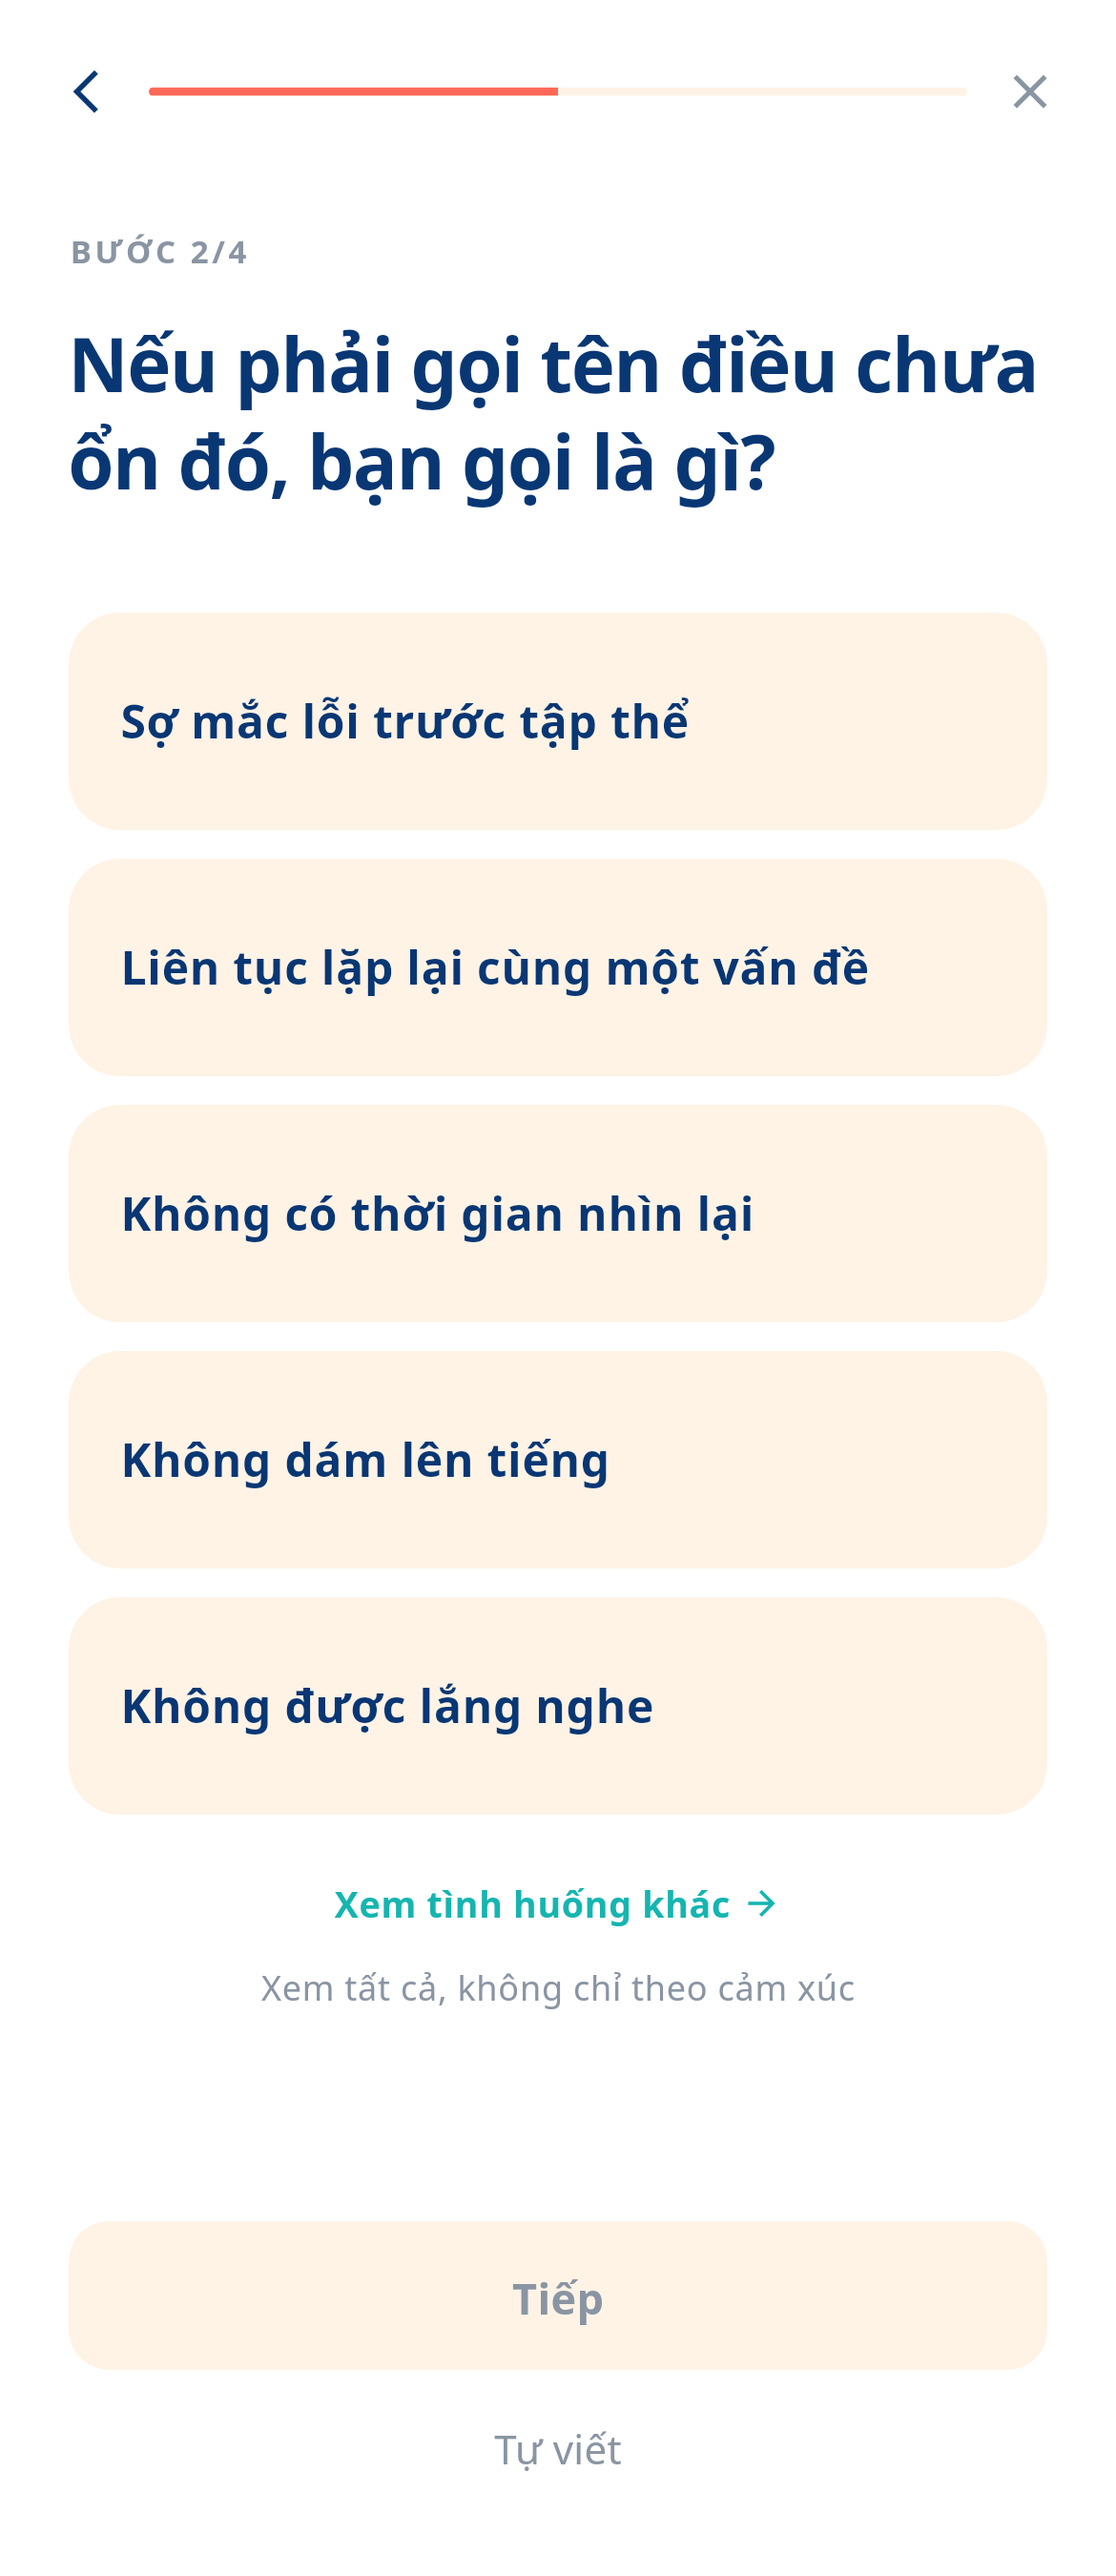
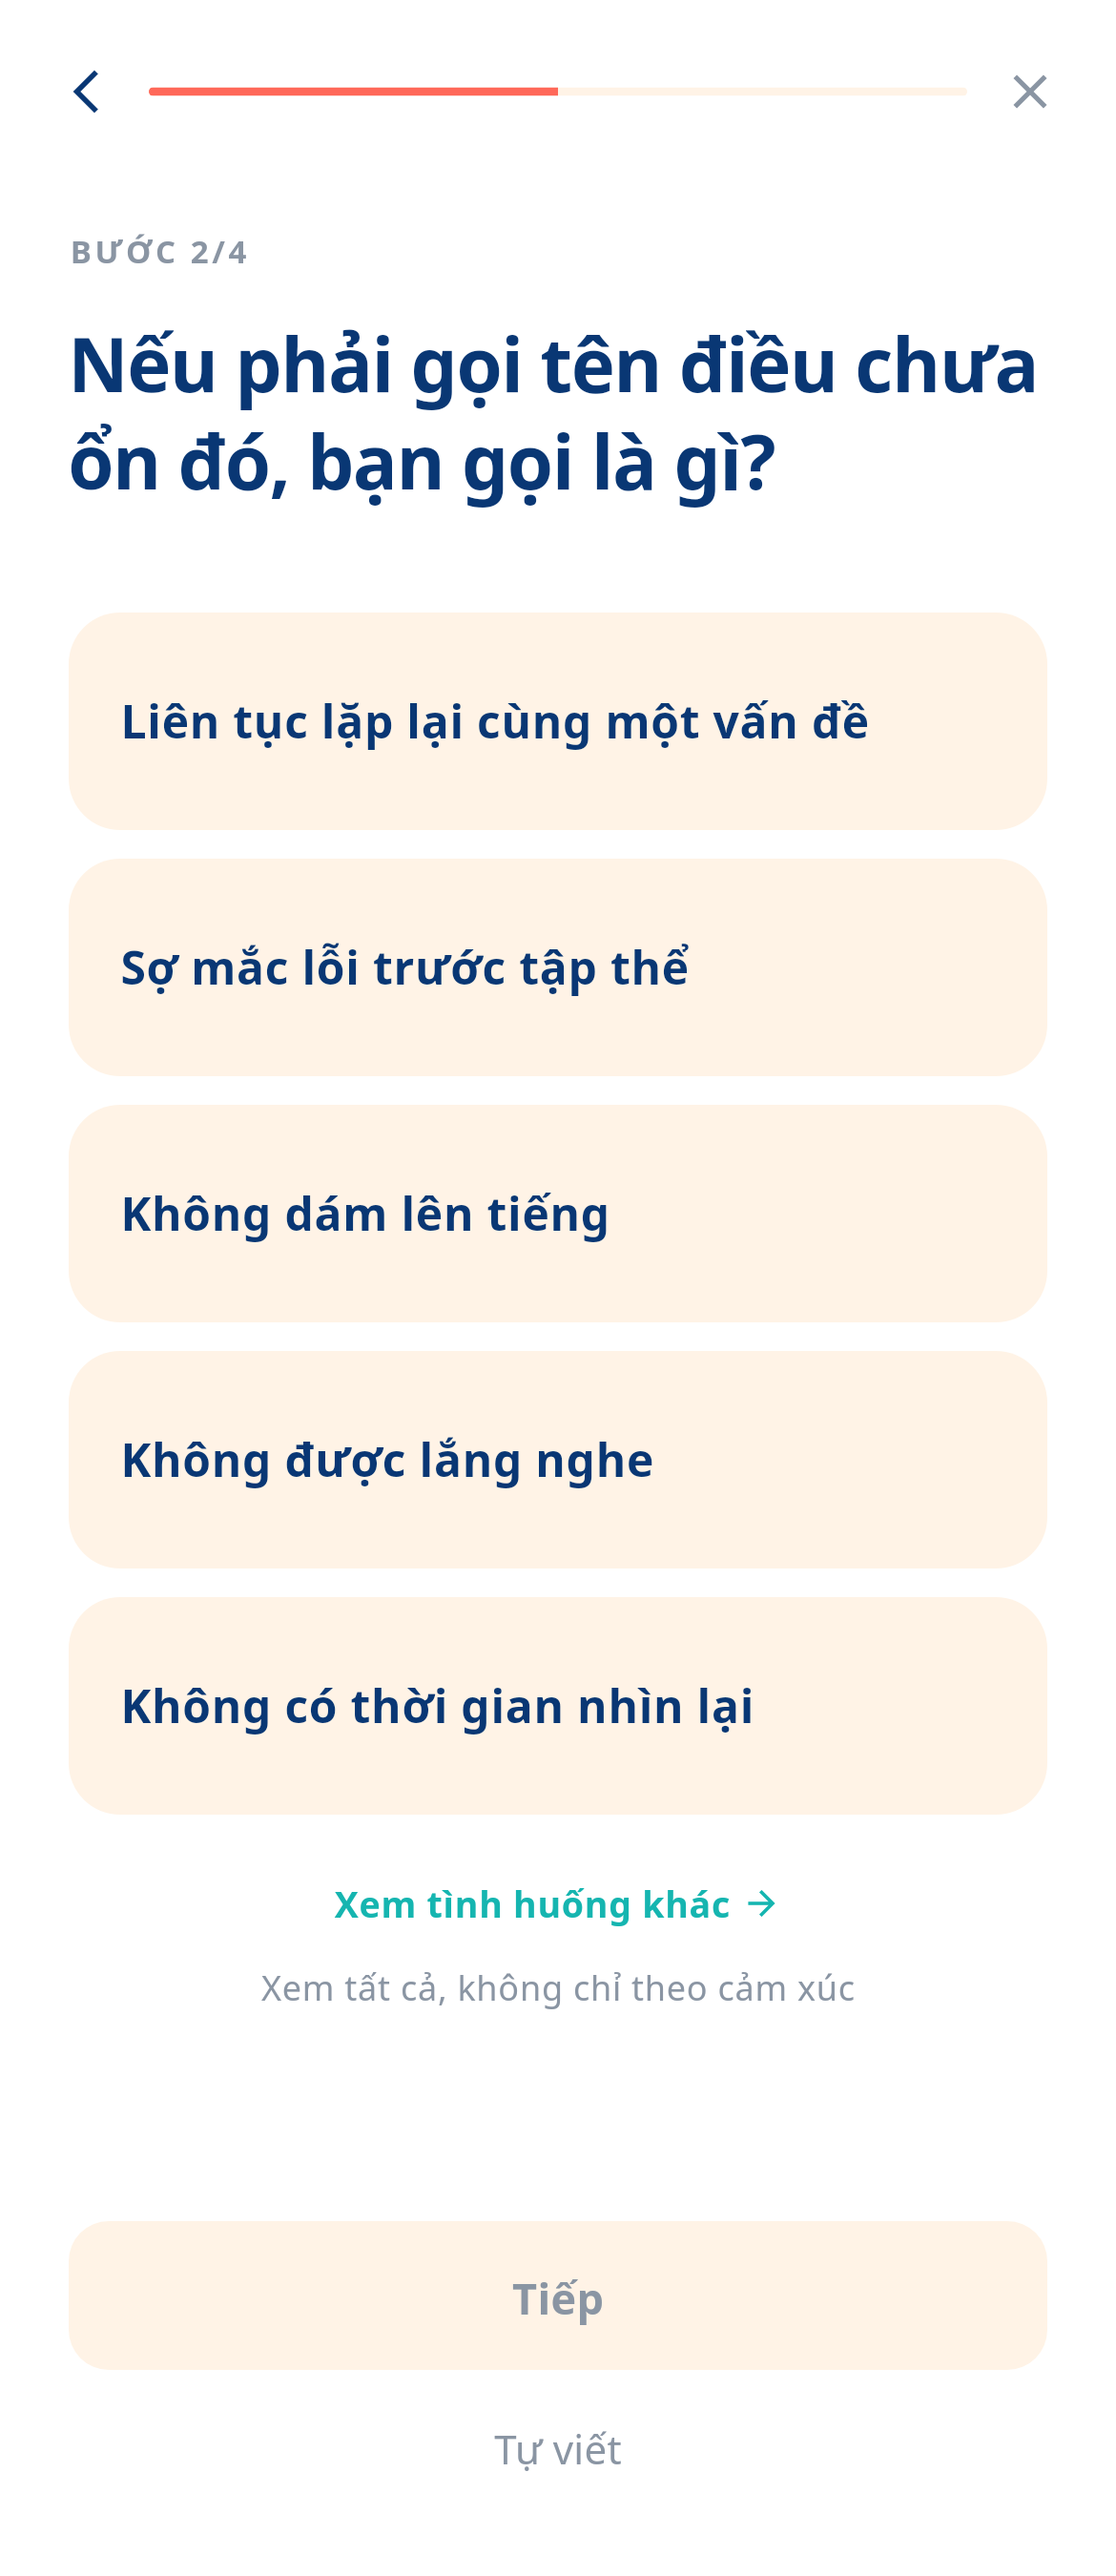
test(wr-screenshots): chụp thêm Hành trình và trạng thái đã chọn
Bộ ảnh cũ dừng ở bảy màn và thiếu đúng những chỗ vừa đụng vào ở hai
commit trước, nên nhìn ảnh không kiểm được gì.

Thêm ba ảnh:
  08 · Lựa chọn ở trạng thái ĐÃ CHỌN — ảnh 07 chỉ có trạng thái ban đầu,
       không cho thấy thẻ được chọn lẫn nút Lưu sáng lên. Đây cũng đúng
       là thời điểm `reflect_choice` được ghi.
  09 · Hành trình bản Free — nhãn loại tiếng Việt trên timeline, và khối
       Cơ hội phát triển ở dạng khoá (§11.4).
  10 · Hành trình bản Premium — câu gợi ý kèm ghi chú độ chính xác ngay
       bên dưới, tức §XII.7 kiểm được bằng mắt chứ không chỉ bằng test.

seedJourney phải seed Pattern lặp đủ ngưỡng 4: thiếu nó thì cả Free lẫn
Premium đều không hiện khối nào — vòng chụp đầu tiên đã dính đúng lỗi
này và cho ra một tấm ảnh không chứng minh được gì về §11.4.

Bộ này vẫn chỉ chạy khi WR_SCREENSHOTS=1, không nằm trong bộ test thường.

diff --git a/test/screenshots/wr_v1_6_screens_test.dart b/test/screenshots/wr_v1_6_screens_test.dart
@@ -34,6 +34,7 @@ import 'package:workreflection_mobile/features/wr/presentation/flow/wr_step_scre
 import 'package:workreflection_mobile/features/wr/presentation/wr_home_screen.dart';
 import 'package:workreflection_mobile/features/wr/presentation/wr_mood_library_screen.dart';
 import 'package:workreflection_mobile/features/wr/presentation/wr_mood_reader_screen.dart';
+import 'package:workreflection_mobile/features/wr/presentation/wr_journey_screen.dart';
 import 'package:workreflection_mobile/features/wr/wr_providers.dart';
 import 'package:workreflection_mobile/l10n/app_localizations.dart';
 
@@ -278,6 +279,10 @@ class _Stage {
           path: '/wr/flow/commit',
           builder: (_, __) => const WrCommitScreen(),
         ),
+        GoRoute(
+          path: '/wr/journey',
+          builder: (_, __) => const WrJourneyScreen(),
+        ),
         GoRoute(path: '/profile', builder: (_, __) => const Scaffold()),
         GoRoute(path: '/wr/flow/done', builder: (_, __) => const Scaffold()),
         GoRoute(
@@ -485,6 +490,134 @@ void main() {
     await expectLater(
       find.byType(MaterialApp),
       matchesGoldenFile('../../screenshots/07_lua_chon.png'),
+    );
+  });
+
+  // Chụp thêm trạng thái ĐÃ CHỌN: đây là lúc nút Lưu mới sáng lên, và cũng là
+  // lúc `reflect_choice` được ghi (§V · WDA Inv.9). Ảnh 07 chỉ có trạng thái
+  // ban đầu nên không cho thấy khác biệt nào của bước Choice.
+  testWidgets('08 · Lựa chọn — đã chọn một câu', skip: !_enabled, (tester) async {
+    final s = buildStage();
+    s.episodes.seed([
+      const ReflectionEpisode(
+        id: 'ep',
+        userId: 'u1',
+        humanMoment: HumanMoment.celebration,
+        state: ExperienceState.exploring,
+        energy: CheckinEnergy.low,
+        situationCode: 'C2-sit-01',
+        patternsDone: [
+          ReflectionPattern.notice,
+          ReflectionPattern.name,
+          ReflectionPattern.preserve,
+        ],
+        notes: {'notice': 'Tôi vừa nói ra được điều mình nghĩ.'},
+      ),
+    ]);
+    tester.view.physicalSize = const Size(390, 900) * 3;
+    tester.view.devicePixelRatio = 3.0;
+    addTearDown(tester.view.reset);
+    await tester.pumpWidget(s.app('/home'));
+    await tester.pumpAndSettle();
+    await tester.tap(find.byKey(const Key('wr_home_resume_reflection')));
+    await tester.pumpAndSettle();
+    await tester.tap(find.byKey(const Key('wr_flow_primary')));
+    await tester.pumpAndSettle();
+    await tester.tap(find.byKey(const Key('wr_choice_1')));
+    await tester.pumpAndSettle();
+    await expectLater(
+      find.byType(MaterialApp),
+      matchesGoldenFile('../../screenshots/08_lua_chon_da_chon.png'),
+    );
+  });
+
+  /// Timeline đủ loại mốc, để soi nhãn loại (§9.1 · §XII.5).
+  ///
+  /// Kèm Pattern lặp đủ ngưỡng: Cơ hội phát triển chỉ xuất hiện khi đã có đủ
+  /// dữ kiện (kGrowthOpportunityThreshold = 4). Thiếu cái này thì cả bản Free
+  /// lẫn Premium đều không hiện gì, và ảnh chụp không nói lên điều gì về §11.4.
+  void seedJourney(_Stage s) {
+    s.intel.seedPatternCounts([
+      PatternCount(
+        id: 'p1',
+        userId: 'u1',
+        situationCode: 'C2-sit-01',
+        scaDimension: ScaDimension.c2,
+        occurrenceCount: 5,
+        lastSeenAt: DateTime(2026, 7, 26),
+      ),
+      PatternCount(
+        id: 'p2',
+        userId: 'u1',
+        situationCode: 'C2-sit-02',
+        scaDimension: ScaDimension.c2,
+        occurrenceCount: 4,
+        lastSeenAt: DateTime(2026, 7, 20),
+      ),
+    ]);
+    s.content.seedMemoryEvents([
+      CareerMemoryEvent(
+        id: 'e1',
+        userId: 'u1',
+        behavior: 'reflection_episode',
+        reflectionText: 'Tôi nhận ra mình im lặng vì sợ làm hỏng không khí.',
+        createdAt: DateTime(2026, 7, 26),
+      ),
+      CareerMemoryEvent(
+        id: 'e2',
+        userId: 'u1',
+        behavior: 'insight',
+        reflectionText: 'Nói sớm hơn thì đỡ mệt hơn.',
+        createdAt: DateTime(2026, 7, 20),
+      ),
+      CareerMemoryEvent(
+        id: 'e3',
+        userId: 'u1',
+        behavior: 'practice_step_note',
+        reflectionText: 'Thử nói trước một người: tôi đã nhắn cho chị Lan.',
+        createdAt: DateTime(2026, 6, 18),
+      ),
+    ]);
+  }
+
+  testWidgets('09 · Hành trình — Free, Cơ hội phát triển còn khoá',
+      skip: !_enabled, (tester) async {
+    final s = buildStage();
+    seedJourney(s);
+    await _shoot(
+      tester,
+      s.app('/wr/journey'),
+      '09_hanh_trinh_free',
+      size: const Size(390, 1100),
+    );
+  });
+
+  testWidgets('10 · Hành trình — Premium, Cơ hội phát triển đã mở',
+      skip: !_enabled, (tester) async {
+    final s = buildStage();
+    seedJourney(s);
+    s.intel
+      ..seedEntitlement(
+        const WrEntitlementRecord(userId: 'u1', plan: WrPlan.premium),
+      )
+      ..seedGrowthOpportunity(
+        GrowthOpportunity(
+          id: 'go-1',
+          userId: 'u1',
+          suggestionText: 'Có vẻ phần lớn điều bạn nhìn lại xoay quanh quan hệ '
+              'với người khác trong công việc. Nếu điều đó đúng, hướng phát '
+              'triển gần nhất của bạn có thể là năng lực đối thoại: nói điều '
+              'khó nói mà vẫn giữ được quan hệ.',
+          confidenceNote: GrowthOpportunity.kConfidenceNote,
+          basedOn: const ['C2-sit-01'],
+          generatedAt: DateTime(2026, 7, 28),
+        ),
+      );
+    await _shoot(
+      tester,
+      s.app('/wr/journey'),
+      '10_hanh_trinh_premium',
+      size: const Size(390, 1200),
     );
   });
 }

diff --git a/AGENTS.md b/AGENTS.md
@@ -1,7 +1,7 @@
 <!-- gitnexus:start -->
 # GitNexus — Code Intelligence
 
-This project is indexed by GitNexus as **appmobileworkreflection** (6453 symbols, 15186 relationships, 86 execution flows). Use the GitNexus MCP tools to understand code, assess impact, and navigate safely.
+This project is indexed by GitNexus as **appmobileworkreflection** (6450 symbols, 15183 relationships, 84 execution flows). Use the GitNexus MCP tools to understand code, assess impact, and navigate safely.
 
 > If any GitNexus tool warns the index is stale, run `npx gitnexus analyze` in terminal first.
 

diff --git a/CLAUDE.md b/CLAUDE.md
@@ -1,7 +1,7 @@
 <!-- gitnexus:start -->
 # GitNexus — Code Intelligence
 
-This project is indexed by GitNexus as **appmobileworkreflection** (6453 symbols, 15186 relationships, 86 execution flows). Use the GitNexus MCP tools to understand code, assess impact, and navigate safely.
+This project is indexed by GitNexus as **appmobileworkreflection** (6450 symbols, 15183 relationships, 84 execution flows). Use the GitNexus MCP tools to understand code, assess impact, and navigate safely.
 
 > If any GitNexus tool warns the index is stale, run `npx gitnexus analyze` in terminal first.
 
